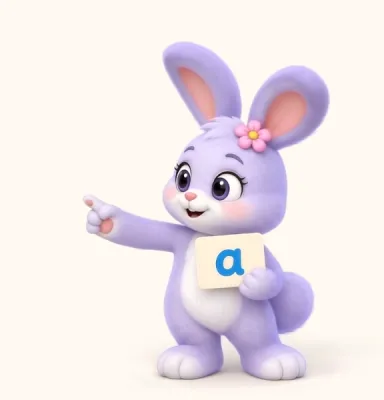
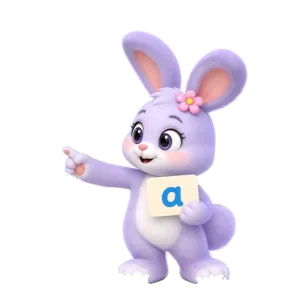
Move Lulu guide to a floating bottom-right corner with transparent frames
Drops the right rail (header and sections are full width again). Lulu
flies from the hero into the bottom-right corner, points left at the
block nearest the viewport centre and shows the tip above her; a close
button docks her into a round button. Pointing frames now have an alpha
matte (tools/lulu-alpha.py), so she sits cleanly over white and violet
sections; they are preloaded so she never vanishes mid-flight.

Claude-Session: https://claude.ai/code/session_016bVaig1H6c4J4XuGwyBkQ1

diff --git a/landing/artifact.html b/landing/artifact.html
@@ -274,6 +274,7 @@ footer.site .fine { grid-column: 1 / -1; font-size: 0.85rem; color: #D9CCE6; bor
 .lulu > img { opacity: 0; }
 /* фон кадрів трохи світліший за сторінку в деяких браузерах; darken лишає видимим лише саму Lulu */
 .lulu { mix-blend-mode: darken; }
+.lulu.away { mix-blend-mode: normal; }   /* у куточку кадри з прозорим фоном */
 .lulu.turning > video { opacity: 0; }
 
 /* Lulu-провідник: на широкому екрані з першого екрана переїжджає в праву колонку
@@ -290,10 +291,14 @@ footer.site .fine { grid-column: 1 / -1; font-size: 0.85rem; color: #D9CCE6; bor
 .lulu.away { pointer-events: none; }
 .say { position: fixed; z-index: 26; left: 0; top: 0; max-width: 230px; margin: 0; pointer-events: none; background: var(--plum); color: var(--milk); box-shadow: 0 0 0 2px var(--milk); font-weight: 800; font-size: .92rem; line-height: 1.3; padding: 10px 14px; border-radius: 14px; opacity: 0; transition: opacity .25s; }
 .say.show { opacity: 1; }
-.say::after { content: ""; position: absolute; right: 48px; bottom: -8px; border: 8px solid transparent; border-bottom: 0; border-top-color: var(--plum); }
+.say::after { content: ""; position: absolute; right: 64px; bottom: -8px; border: 8px solid transparent; border-bottom: 0; border-top-color: var(--plum); }
+.dock { position: fixed; z-index: 16; right: 20px; bottom: 20px; width: 56px; height: 56px; border-radius: 50%; border: 2px solid var(--plum); background: var(--milk); box-shadow: 0 6px 18px rgba(48,32,71,.18); display: none; place-items: center; cursor: pointer; padding: 0; }
+.dock img { width: 36px; height: auto; }
+.hide-lulu { position: fixed; z-index: 16; left: 0; top: 0; width: 32px; height: 32px; border-radius: 50%; border: 1.5px solid var(--plum); background: var(--milk); color: var(--plum); font: 800 16px/1 var(--font-body); display: none; place-items: center; cursor: pointer; padding: 0; }
+body.docked .dock, body.cornered .hide-lulu { display: grid; }
+body.docked .hide-lulu { display: none; }
 [data-point].pointed { outline: 3px dashed var(--orange); outline-offset: 8px; border-radius: 12px; transition: outline-color .3s; }
-@media (min-width: 1280px) {
-  body.rail { padding-right: 270px; }
+@media (min-width: 1024px) {
   /* Lulu-провідник уже поруч, тож у самих блоках другої Lulu не показуємо */
   body.rail .trainer-lulu img, body.rail .price-card > img { display: none; }
   body.rail .trainer { grid-template-columns: minmax(0, 1fr) 200px; }
@@ -545,6 +550,8 @@ footer.site .fine { grid-column: 1 / -1; font-size: 0.85rem; color: #D9CCE6; bor
 </footer>
 
 <p class="say" id="lulu-say" aria-live="polite"></p>
+<button class="hide-lulu" id="hide-lulu" type="button" aria-label="Сховати Lulu">×</button>
+<button class="dock" id="dock" type="button" aria-label="Показати Lulu"><img src="assets/logos/logo-symbol.svg" alt=""></button>
 
 <script>
 (() => {
@@ -803,6 +810,7 @@ footer.site .fine { grid-column: 1 / -1; font-size: 0.85rem; color: #D9CCE6; bor
       im.src = `assets/lulu/point/${String(i).padStart(2, '0')}.webp`;
       pointBox.append(im); return im;
     });
+    showPoint(0);
   }
   const showPoint = i => { if (i === pshown) return; if (pshown >= 0) pimgs[pshown].style.opacity = 0; pimgs[i].style.opacity = 1; pshown = i; };
   // стан жесту: rest → raise → hold (до holdUntil) → lower → rest
@@ -820,11 +828,16 @@ footer.site .fine { grid-column: 1 / -1; font-size: 0.85rem; color: #D9CCE6; bor
   }
 
   /* Права колонка: лише на широкому екрані */
-  const railOK = () => innerWidth >= 1280 && !reduce;
+  const railOK = () => innerWidth >= 1024 && !reduce;
   function syncRail() { document.body.classList.toggle('rail', railOK()); }
   syncRail(); addEventListener('resize', syncRail);
-  const RAIL_W = 210, RAIL_GAP = 28, PAW_Y = 0.567;   // ширина Lulu в колонці; висота лапки в кадрі
-  let travel = 0, railY = null;
+  const CORNER_W = 180, GAP = 20;   // Lulu в правому нижньому куточку
+  let travel = 0, docked = false;
+  try { docked = sessionStorage.getItem('lulu-docked') === '1'; } catch (e) {}
+  const setDocked = v => { docked = v; try { sessionStorage.setItem('lulu-docked', v ? '1' : '0'); } catch (e) {} if (v) hideTip(); };
+  $('#hide-lulu').onclick = () => setDocked(true);
+  $('#dock').onclick = () => setDocked(false);
+  if (railOK()) setTimeout(loadPoint, 1200);   // кадри жесту завантажуємо заздалегідь, щоб у перельоті Lulu не зникала
 
   /* Підказки: коли блок доходить до середини екрана, Lulu під'їжджає до нього і показує лапкою */
   const TIPS = [
@@ -890,38 +903,33 @@ footer.site .fine { grid-column: 1 / -1; font-size: 0.85rem; color: #D9CCE6; bor
     travel = p;
     if (p === 0) {
       // перший екран: Lulu на своєму місці, крутить головою
-      if (luluEl.style.transform) { luluEl.style.transform = ''; luluEl.classList.remove('pointing', 'away'); railY = null; hideTip(); gesture = 'rest'; gFrame = 0; }
+      if (luluEl.style.transform) { luluEl.style.transform = ''; luluEl.classList.remove('pointing', 'away'); document.body.classList.remove('cornered', 'docked'); hideTip(); gesture = 'rest'; gFrame = 0; }
       step(hero, dragX === null ? aimAt(stage) : hero.target, !idle || dragX !== null);
     } else {
       loadPoint();
-      // переліт: голова повертається прямо, Lulu зменшується й летить у праву колонку
+      // переліт: Lulu дивиться прямо, зменшується й летить у правий нижній куточок
       hero.target = 0; step(hero, 0, true);
       const sr = stage.getBoundingClientRect();
       const W = luluEl.offsetWidth, H = luluEl.offsetHeight;
       const sx = sr.left + luluEl.offsetLeft, sy = sr.top + luluEl.offsetTop;
-      const k = RAIL_W / W, rh = H * k;
-      const hb = top.getBoundingClientRect().bottom;
-      const rx = innerWidth - RAIL_GAP - RAIL_W;
-      // Лапка тримається біля середини екрана і плавно підтягується до центру блоку (не далі ніж на 100px)
-      const mid = innerHeight / 2;
-      let pawY = mid;
-      if (anchor) {
-        const r = anchor.el.getBoundingClientRect();
-        pawY = clamp(r.top + Math.min(r.height, innerHeight * 0.6) / 2, mid - 100, mid + 100);
-      }
-      const want = clamp(pawY - rh * PAW_Y, hb + 64, innerHeight - rh - 12);
-      railY = railY === null ? want : railY + (want - railY) * 0.07;
+      const k = CORNER_W / W, ch = H * k;
+      const cx = innerWidth - GAP - CORNER_W, cy = innerHeight - GAP - ch + (docked ? ch + 40 : 0);   // сховано: за краєм екрана
       const e = ease(p);
-      const x = sx + (rx - sx) * e, y = sy + (railY - sy) * e, sc = 1 + (k - 1) * e;
-      luluEl.style.transform = `translate(${x - sx}px, ${y - sy}px) scale(${sc})`;
-      luluEl.classList.toggle('away', true);
-      const arrived = p >= 1;
-      if (arrived && hero.shown === hero.frontFrame) luluEl.classList.add('pointing');
-      if (!arrived && gesture === 'rest') luluEl.classList.remove('pointing');
-      if (luluEl.classList.contains('pointing')) {
-        checkTips(now); gestureStep(now);
-        say.style.transform = `translate(${rx + RAIL_W - say.offsetWidth - 4}px, ${railY - say.offsetHeight + rh * 0.08}px)`;
+      luluEl.style.transform = `translate(${sx + (cx - sx) * e - sx}px, ${sy + (cy - sy) * e - sy}px) scale(${1 + (k - 1) * e})`;
+      luluEl.classList.add('away');
+      // кадр «прямо» з відео повороту → перший кадр жесту (теж прямо, з прозорим фоном)
+      const pointReady = pimgs[0].complete && pimgs[0].naturalWidth > 0;
+      if (p > 0.15 && pointReady && (hero.shown === hero.frontFrame || !hero.ready)) luluEl.classList.add('pointing');
+      if (p < 0.1 && gesture === 'rest') luluEl.classList.remove('pointing');
+      const inCorner = p >= 1 && !docked;
+      document.body.classList.toggle('cornered', inCorner);
+      document.body.classList.toggle('docked', p >= 1 && docked);
+      if (inCorner) {
+        checkTips(now);
+        say.style.transform = `translate(${innerWidth - GAP - say.offsetWidth}px, ${cy - say.offsetHeight + ch * 0.06}px)`;
+        $('#hide-lulu').style.transform = `translate(${innerWidth - GAP - 16}px, ${cy + ch * 0.12}px)`;
       } else if (current) hideTip();
+      if (luluEl.classList.contains('pointing')) gestureStep(now);
     }
     requestAnimationFrame(tick);
   }

diff --git a/landing/index.html b/landing/index.html
@@ -278,6 +278,7 @@ footer.site .fine { grid-column: 1 / -1; font-size: 0.85rem; color: #D9CCE6; bor
 .lulu > img { opacity: 0; }
 /* фон кадрів трохи світліший за сторінку в деяких браузерах; darken лишає видимим лише саму Lulu */
 .lulu { mix-blend-mode: darken; }
+.lulu.away { mix-blend-mode: normal; }   /* у куточку кадри з прозорим фоном */
 .lulu.turning > video { opacity: 0; }
 
 /* Lulu-провідник: на широкому екрані з першого екрана переїжджає в праву колонку
@@ -294,10 +295,14 @@ footer.site .fine { grid-column: 1 / -1; font-size: 0.85rem; color: #D9CCE6; bor
 .lulu.away { pointer-events: none; }
 .say { position: fixed; z-index: 26; left: 0; top: 0; max-width: 230px; margin: 0; pointer-events: none; background: var(--plum); color: var(--milk); box-shadow: 0 0 0 2px var(--milk); font-weight: 800; font-size: .92rem; line-height: 1.3; padding: 10px 14px; border-radius: 14px; opacity: 0; transition: opacity .25s; }
 .say.show { opacity: 1; }
-.say::after { content: ""; position: absolute; right: 48px; bottom: -8px; border: 8px solid transparent; border-bottom: 0; border-top-color: var(--plum); }
+.say::after { content: ""; position: absolute; right: 64px; bottom: -8px; border: 8px solid transparent; border-bottom: 0; border-top-color: var(--plum); }
+.dock { position: fixed; z-index: 16; right: 20px; bottom: 20px; width: 56px; height: 56px; border-radius: 50%; border: 2px solid var(--plum); background: var(--milk); box-shadow: 0 6px 18px rgba(48,32,71,.18); display: none; place-items: center; cursor: pointer; padding: 0; }
+.dock img { width: 36px; height: auto; }
+.hide-lulu { position: fixed; z-index: 16; left: 0; top: 0; width: 32px; height: 32px; border-radius: 50%; border: 1.5px solid var(--plum); background: var(--milk); color: var(--plum); font: 800 16px/1 var(--font-body); display: none; place-items: center; cursor: pointer; padding: 0; }
+body.docked .dock, body.cornered .hide-lulu { display: grid; }
+body.docked .hide-lulu { display: none; }
 [data-point].pointed { outline: 3px dashed var(--orange); outline-offset: 8px; border-radius: 12px; transition: outline-color .3s; }
-@media (min-width: 1280px) {
-  body.rail { padding-right: 270px; }
+@media (min-width: 1024px) {
   /* Lulu-провідник уже поруч, тож у самих блоках другої Lulu не показуємо */
   body.rail .trainer-lulu img, body.rail .price-card > img { display: none; }
   body.rail .trainer { grid-template-columns: minmax(0, 1fr) 200px; }
@@ -549,6 +554,8 @@ footer.site .fine { grid-column: 1 / -1; font-size: 0.85rem; color: #D9CCE6; bor
 </footer>
 
 <p class="say" id="lulu-say" aria-live="polite"></p>
+<button class="hide-lulu" id="hide-lulu" type="button" aria-label="Сховати Lulu">×</button>
+<button class="dock" id="dock" type="button" aria-label="Показати Lulu"><img src="assets/logos/logo-symbol.svg" alt=""></button>
 
 <script>
 (() => {
@@ -807,6 +814,7 @@ footer.site .fine { grid-column: 1 / -1; font-size: 0.85rem; color: #D9CCE6; bor
       im.src = `assets/lulu/point/${String(i).padStart(2, '0')}.webp`;
       pointBox.append(im); return im;
     });
+    showPoint(0);
   }
   const showPoint = i => { if (i === pshown) return; if (pshown >= 0) pimgs[pshown].style.opacity = 0; pimgs[i].style.opacity = 1; pshown = i; };
   // стан жесту: rest → raise → hold (до holdUntil) → lower → rest
@@ -824,11 +832,16 @@ footer.site .fine { grid-column: 1 / -1; font-size: 0.85rem; color: #D9CCE6; bor
   }
 
   /* Права колонка: лише на широкому екрані */
-  const railOK = () => innerWidth >= 1280 && !reduce;
+  const railOK = () => innerWidth >= 1024 && !reduce;
   function syncRail() { document.body.classList.toggle('rail', railOK()); }
   syncRail(); addEventListener('resize', syncRail);
-  const RAIL_W = 210, RAIL_GAP = 28, PAW_Y = 0.567;   // ширина Lulu в колонці; висота лапки в кадрі
-  let travel = 0, railY = null;
+  const CORNER_W = 180, GAP = 20;   // Lulu в правому нижньому куточку
+  let travel = 0, docked = false;
+  try { docked = sessionStorage.getItem('lulu-docked') === '1'; } catch (e) {}
+  const setDocked = v => { docked = v; try { sessionStorage.setItem('lulu-docked', v ? '1' : '0'); } catch (e) {} if (v) hideTip(); };
+  $('#hide-lulu').onclick = () => setDocked(true);
+  $('#dock').onclick = () => setDocked(false);
+  if (railOK()) setTimeout(loadPoint, 1200);   // кадри жесту завантажуємо заздалегідь, щоб у перельоті Lulu не зникала
 
   /* Підказки: коли блок доходить до середини екрана, Lulu під'їжджає до нього і показує лапкою */
   const TIPS = [
@@ -894,38 +907,33 @@ footer.site .fine { grid-column: 1 / -1; font-size: 0.85rem; color: #D9CCE6; bor
     travel = p;
     if (p === 0) {
       // перший екран: Lulu на своєму місці, крутить головою
-      if (luluEl.style.transform) { luluEl.style.transform = ''; luluEl.classList.remove('pointing', 'away'); railY = null; hideTip(); gesture = 'rest'; gFrame = 0; }
+      if (luluEl.style.transform) { luluEl.style.transform = ''; luluEl.classList.remove('pointing', 'away'); document.body.classList.remove('cornered', 'docked'); hideTip(); gesture = 'rest'; gFrame = 0; }
       step(hero, dragX === null ? aimAt(stage) : hero.target, !idle || dragX !== null);
     } else {
       loadPoint();
-      // переліт: голова повертається прямо, Lulu зменшується й летить у праву колонку
+      // переліт: Lulu дивиться прямо, зменшується й летить у правий нижній куточок
       hero.target = 0; step(hero, 0, true);
       const sr = stage.getBoundingClientRect();
       const W = luluEl.offsetWidth, H = luluEl.offsetHeight;
       const sx = sr.left + luluEl.offsetLeft, sy = sr.top + luluEl.offsetTop;
-      const k = RAIL_W / W, rh = H * k;
-      const hb = top.getBoundingClientRect().bottom;
-      const rx = innerWidth - RAIL_GAP - RAIL_W;
-      // Лапка тримається біля середини екрана і плавно підтягується до центру блоку (не далі ніж на 100px)
-      const mid = innerHeight / 2;
-      let pawY = mid;
-      if (anchor) {
-        const r = anchor.el.getBoundingClientRect();
-        pawY = clamp(r.top + Math.min(r.height, innerHeight * 0.6) / 2, mid - 100, mid + 100);
-      }
-      const want = clamp(pawY - rh * PAW_Y, hb + 64, innerHeight - rh - 12);
-      railY = railY === null ? want : railY + (want - railY) * 0.07;
+      const k = CORNER_W / W, ch = H * k;
+      const cx = innerWidth - GAP - CORNER_W, cy = innerHeight - GAP - ch + (docked ? ch + 40 : 0);   // сховано: за краєм екрана
       const e = ease(p);
-      const x = sx + (rx - sx) * e, y = sy + (railY - sy) * e, sc = 1 + (k - 1) * e;
-      luluEl.style.transform = `translate(${x - sx}px, ${y - sy}px) scale(${sc})`;
-      luluEl.classList.toggle('away', true);
-      const arrived = p >= 1;
-      if (arrived && hero.shown === hero.frontFrame) luluEl.classList.add('pointing');
-      if (!arrived && gesture === 'rest') luluEl.classList.remove('pointing');
-      if (luluEl.classList.contains('pointing')) {
-        checkTips(now); gestureStep(now);
-        say.style.transform = `translate(${rx + RAIL_W - say.offsetWidth - 4}px, ${railY - say.offsetHeight + rh * 0.08}px)`;
+      luluEl.style.transform = `translate(${sx + (cx - sx) * e - sx}px, ${sy + (cy - sy) * e - sy}px) scale(${1 + (k - 1) * e})`;
+      luluEl.classList.add('away');
+      // кадр «прямо» з відео повороту → перший кадр жесту (теж прямо, з прозорим фоном)
+      const pointReady = pimgs[0].complete && pimgs[0].naturalWidth > 0;
+      if (p > 0.15 && pointReady && (hero.shown === hero.frontFrame || !hero.ready)) luluEl.classList.add('pointing');
+      if (p < 0.1 && gesture === 'rest') luluEl.classList.remove('pointing');
+      const inCorner = p >= 1 && !docked;
+      document.body.classList.toggle('cornered', inCorner);
+      document.body.classList.toggle('docked', p >= 1 && docked);
+      if (inCorner) {
+        checkTips(now);
+        say.style.transform = `translate(${innerWidth - GAP - say.offsetWidth}px, ${cy - say.offsetHeight + ch * 0.06}px)`;
+        $('#hide-lulu').style.transform = `translate(${innerWidth - GAP - 16}px, ${cy + ch * 0.12}px)`;
       } else if (current) hideTip();
+      if (luluEl.classList.contains('pointing')) gestureStep(now);
     }
     requestAnimationFrame(tick);
   }

diff --git a/tools/lulu-alpha.py b/tools/lulu-alpha.py
@@ -1,0 +1,28 @@
+import cv2, numpy as np, sys, os
+CREAM=np.array([0xF2,0xF9,0xFF],np.float32)
+def key(im):
+    imu=im; im=im.astype(np.float32)
+    d=np.sqrt(((im-CREAM)**2).sum(-1))
+    soft=np.clip((d-6)/18,0,1)
+    hsv=cv2.cvtColor(imu,cv2.COLOR_BGR2HSV).astype(np.float32)
+    yy=np.arange(im.shape[0])[:,None]/im.shape[0]
+    warm=(im[...,0]-im[...,2])<-3                         # тінь тепла (червоного більше за синій), лапки й хутро — холодні
+    shadowish=((hsv[...,1]<26)&(hsv[...,2]<238)) | ((yy>0.78)&warm&(d<45))   # тінь на підлозі
+    core=((soft>0.35)&~shadowish).astype(np.uint8)
+    core=cv2.morphologyEx(core,cv2.MORPH_CLOSE,cv2.getStructuringElement(cv2.MORPH_ELLIPSE,(9,9)))
+    n,lab,st,_=cv2.connectedComponentsWithStats(core)
+    if n>1: core=(lab==1+np.argmax(st[1:,cv2.CC_STAT_AREA])).astype(np.uint8)
+    h,w=core.shape; flood=core.copy(); m=np.zeros((h+2,w+2),np.uint8); cv2.floodFill(flood,m,(0,0),2)
+    core=((flood==0)|(core==1)).astype(np.uint8)          # заповнили дірки (мордочка, картка)
+    inner=cv2.erode(core,np.ones((5,5),np.uint8))
+    near=cv2.dilate(core,np.ones((5,5),np.uint8))
+    a=np.where(inner>0,1.0,soft*near*(~shadowish))
+    a=cv2.GaussianBlur(a.astype(np.float32),(3,3),0)
+    a3=a[...,None]
+    fg=np.where(a3>0.05,(im-(1-a3)*CREAM)/np.maximum(a3,0.05),im).clip(0,255)
+    return np.dstack([fg,a*255]).astype(np.uint8)
+src,dst,W,H=sys.argv[1],sys.argv[2],int(sys.argv[3]),int(sys.argv[4])
+os.makedirs(dst,exist_ok=True)
+for i,f in enumerate(sys.argv[5:]):
+    im=cv2.resize(cv2.imread(os.path.join(src,f)),(W,H),interpolation=cv2.INTER_AREA)
+    cv2.imwrite(os.path.join(dst,'%02d.png'%i),key(im))

diff --git a/docs/handoff.md b/docs/handoff.md
@@ -9,4 +9,4 @@
 - Далі: користувач обирає покращення (озвучка, збереження колод між пристроями, захист сторінки Parents, мова, вага logo.png 3 МБ) і чекаємо новий брендбук від дизайнера.
 - 12.10.2026: користувач переробляє брендбук та елементи. Поточний сайт стане ЧАСТИНОЮ більшого сайту, тому дизайн і структуру не чіпаємо, поки не буде брендбука й плану більшого сайту.
 - 12.10.2026: `landing/` — сайт курсу (колишній `plus.html`) за брендбуком v2: Lulu замість лисеняти. Перший екран: відео-повтор Lulu (`assets/lulu/lulu-loop.*`), коли рухається курсор — 24 кадри повороту голови (`assets/lulu/turn/`, кути в масиві YAW у скрипті). Lulu-супутник збоку на екранах ≥1280px. Шрифти локальні WOFF2 (підмножина латиниця+кирилиця). Відео Lulu згенерував користувач, фон вирівняно до #FFF9F2.
-- 12.10.2026: Lulu-провідник на всю сторінку (≥1280px): з першого екрана злітає в праву колонку (body.rail, padding-right 270px), під'їжджає до блоку з підказкою і показує лапкою ліворуч (28 кадрів `assets/lulu/point/`, з відео `brand/lulu-point-source.mp4`: 0–14 піднімає, 14–27 тримає туди-назад). Вихідне відео повороту голови: `brand/lulu-headturn-source.mp4`. На вужчих екранах Lulu лише на першому екрані.
+- 12.10.2026: Lulu-провідник (≥1024px): з першого екрана злітає в правий нижній куточок (без окремої колонки), показує лапкою ліворуч на блок, найближчий до середини екрана, з підказкою; кнопка «×» згортає її в кружечок. Кадри жесту `assets/lulu/point/` мають прозорий фон (зроблено `tools/lulu-alpha.py`), з відео `brand/lulu-point-source.mp4`. Вихідне відео повороту голови: `brand/lulu-headturn-source.mp4`.
